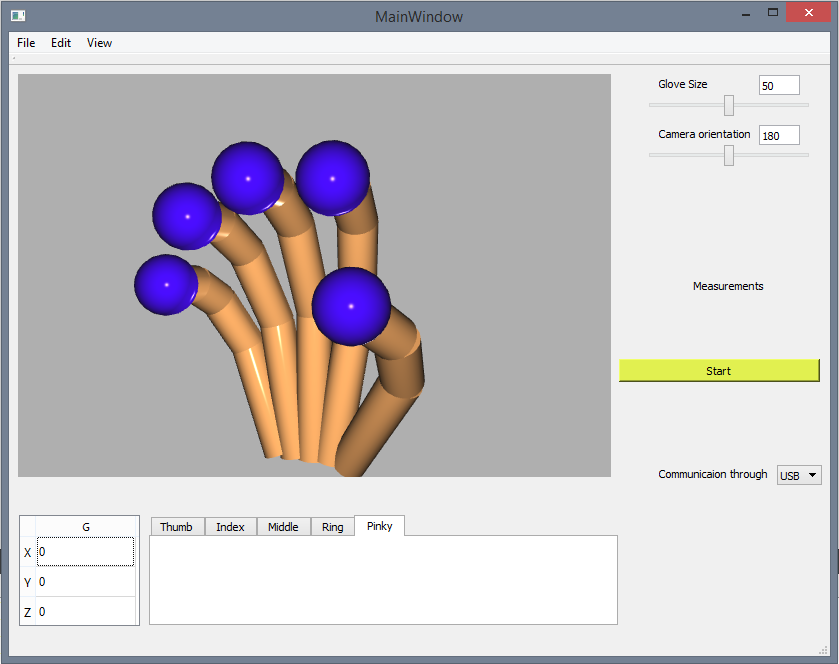
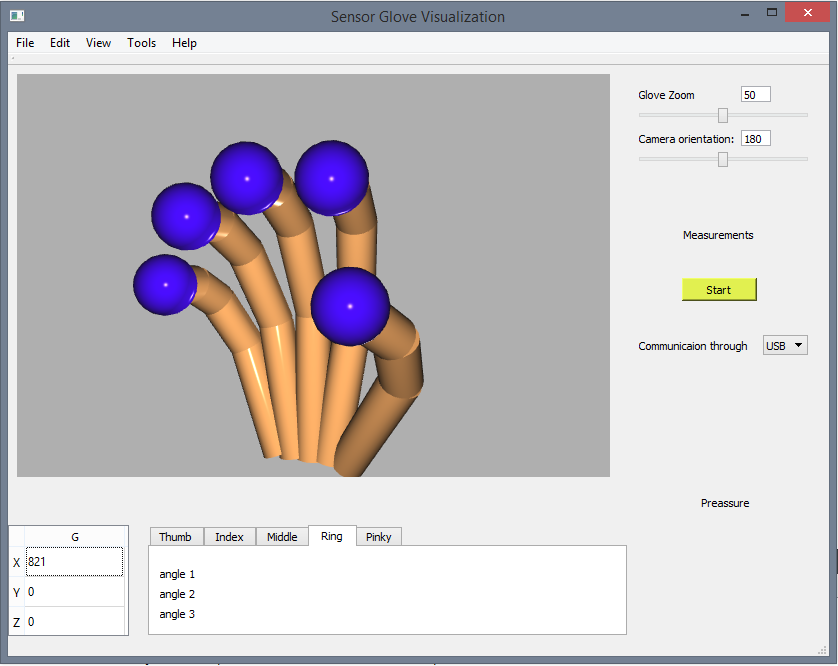
Dodano rzeczy do INputu, nie otwiera sie port, nie ma obslugi bledow, nie ma zmiany typu polaczenia

diff --git a/Projekt/SensorGloveQt/input.cpp b/Projekt/SensorGloveQt/input.cpp
@@ -1,11 +1,126 @@
 #include "includes.h"
 
-Input::Input():m_ConnectionType(USBConnection)
+Input::Input(QWidget *parent):QObject(parent),
+    m_ConnectionType(USBConnection),
+    m_RowTransferStarted(),
+    m_SingleDataRow(),
+    m_JointAngles(),
+    m_TensionSensorValues(),
+    m_AccelerometerValues(),
+    m_PortName(),
+    m_PortNumber(),
+    m_Manufacturer()
 {
-
+    SerialPort = new QSerialPort(this);
+    connect(SerialPort, &QSerialPort::readyRead, this, &Input::ReadData);
+    FindCOMport();
+    ConfigureSPort();
 }
 
 void Input::ChangeConnectionType(Input::ConnectionType_t p_ConnecitonType)
 {
     m_ConnectionType=p_ConnecitonType;
+    FindCOMport();
+}
+
+QSerialPort* Input::getSerialPort() const
+{
+    return SerialPort;
+}
+
+void Input::FindCOMport()
+{
+    QString DesiredManufacturer;
+    switch(m_ConnectionType)
+    {
+    case BluetoothConnection:
+        DesiredManufacturer = BLUETOOTH_MANUFACTURER;
+        break;
+    case UARTConnection:
+        DesiredManufacturer = UART_MANUFACTURER;
+        break;
+    case USBConnection:
+        DesiredManufacturer = USB_MANUFACTURER;
+    }
+
+    const auto PortInfo = QSerialPortInfo::availablePorts();
+    for(const QSerialPortInfo &information: PortInfo)
+    {
+        if(!DesiredManufacturer.compare(information.manufacturer()))
+        {
+            m_Manufacturer = information.manufacturer();
+            m_PortNumber = information.serialNumber();
+            m_PortName = information.portName();
+            break;
+        }
+    }
+}
+
+void Input::ConfigureSPort()
+{
+    switch(m_ConnectionType)
+    {
+    case BluetoothConnection:
+        SerialPort->setBaudRate(BLUETOOTH_BAUDRATE);
+        break;
+    case UARTConnection:
+        SerialPort->setBaudRate(UART_BAUDRATE);
+        break;
+    case USBConnection:
+        SerialPort->setBaudRate(USB_BAUDRATE);
+    }
+    SerialPort->setPortName(m_PortName);
+    SerialPort->setDataBits(QSerialPort::Data8);
+    SerialPort->setParity(QSerialPort::NoParity);
+    SerialPort->setStopBits(QSerialPort::OneAndHalfStop);
+    SerialPort->setFlowControl(QSerialPort::NoFlowControl);
+}
+
+void Input::OpenCloseSPort()
+{
+    if(SerialPort->isOpen())
+        SerialPort->close();
+    else
+        SerialPort->open(QIODevice::ReadOnly);
+}
+
+void Input::ReadData()
+{
+    QByteArray ReceivedData = SerialPort->read(1);
+    float JointAngle;
+    int TensionValue;
+    float RotationAngle;
+    if(m_RowTransferStarted)
+        if(ReceivedData.at(0)=='R')
+        {
+            QTextStream DataStream(m_SingleDataRow);
+            for(int i=0; i<(FINGER_COUNT*2) && !DataStream.atEnd();++i)
+            {
+                JointAngle;
+                DataStream >> JointAngle;
+                m_JointAngles.push_back(JointAngle);
+            }
+            for(int i=0; i<FINGER_COUNT && !DataStream.atEnd();++i)
+            {
+                TensionValue;
+                DataStream >> TensionValue;
+                m_TensionSensorValues.push_back(TensionValue);
+            }
+            for(int i=0; i<ROTATION_ANGLE_COUNT && !DataStream.atEnd();++i)
+            {
+                RotationAngle;
+                DataStream >> RotationAngle;
+                m_AccelerometerValues.push_back(RotationAngle);
+            }
+            m_SingleDataRow.clear();
+            for(float var: m_JointAngles)
+                std::cout<<var<<' ';
+            std::cout<<std::endl;
+            m_RowTransferStarted=false;
+        }
+        else
+            m_SingleDataRow.append(ReceivedData);
+    else
+        if(ReceivedData.at(0)=='S')
+            m_RowTransferStarted=true;
 }

diff --git a/Projekt/SensorGloveQt/input.h b/Projekt/SensorGloveQt/input.h
@@ -12,6 +12,17 @@
 
 #include <QtBluetooth>
 #include <QtSerialPort>
+#include "errorhandler.h"
+
+#define BLUETOOTH_MANUFACTURER ""
+#define UART_MANUFACTURER "Prolific"
+#define USB_MANUFACTURER "STMicroelectornics."
+
+#define BLUETOOTH_BAUDRATE QSerialPort::Baud9600
+#define UART_BAUDRATE QSerialPort::Baud115200
+#define USB_BAUDRATE QSerialPort::Baud115200
+
+#define ROTATION_ANGLE_COUNT 3
 
 /*
 namespace Id {
@@ -26,19 +37,37 @@ class Input;
  * wskazania akcelerometru i typ połączenia z rękawicą sensoryczną
  *
  */
-class Input: QBluetoothTransferManager, QSerialPort
+class Input: public QObject
 {
-    enum ConnectionType_t {BluetoothConnection, USBConnection};
+    Q_OBJECT
+private:
+    enum ConnectionType_t {BluetoothConnection, UARTConnection, USBConnection};
+
+    QSerialPort *SerialPort;
+
+    QString m_PortName;
+    QString m_PortNumber;
+    QString m_Manufacturer;
+
+    bool m_RowTransferStarted;
+    QByteArray m_SingleDataRow;
 
     QVector<float> m_JointAngles;
     QVector<int> m_TensionSensorValues;
     QVector<float> m_AccelerometerValues;
     ConnectionType_t m_ConnectionType;
 public:
-    Input();
+
+    explicit Input(QWidget *parent = nullptr);
 
     void ChangeConnectionType(ConnectionType_t p_ConnecitonType);
-    void ConfigureInput();
+    QSerialPort* getSerialPort() const;
+private:
+    void FindCOMport();
+    void ConfigureSPort();
+public slots:
+    void OpenCloseSPort();
+    void ReadData();
 };
 
 #endif // INPUT_H

diff --git a/Projekt/SensorGloveQt/mainwindow.cpp b/Projekt/SensorGloveQt/mainwindow.cpp
@@ -6,6 +6,7 @@ MainWindow::MainWindow(QWidget *parent) :
 {
     ui->setupUi(this);
     ui->StartStopButton->setStyleSheet("background-color: rgb(225,240,80)");
+    this->setWindowTitle("Sensor Glove Visualization");
     this->setMinimumHeight(ui->ConfigurationWidget->height() + ui->MeasurementWidget->height()
                            +ui->GyroTable->height() + MARGIN*3);
     this->setMinimumWidth(ui->GyroTable->width()+ui->FingersTab->width()+MARGIN*3);
@@ -29,12 +30,12 @@ void MainWindow::AddWidgetToGlove3DLayout(QWidget *widget)
      ui->centralWidget->width();
      ui->Glove3DLayout->addWidget(widget);
      Glove3DLayoutWidgetIsSet = true;
-
  }
 
 void MainWindow::InitInputData(Input * data)
 {
     InputData = data;
+    connect(ui->StartStopButton, &QPushButton::clicked,InputData, &Input::OpenCloseSPort);
 }
 // ********************************************************************
 // ***************************   private    ***************************   private
@@ -62,7 +63,6 @@ void MainWindow::on_StartStopButton_clicked()
     {
         ui->StartStopButton->setText("Stop");
         ui->StartStopButton->setStyleSheet("background-color: rgb(240,125,70)");
-
     }
     else
     {

diff --git a/Projekt/SensorGloveQt/main.cpp b/Projekt/SensorGloveQt/main.cpp
@@ -8,7 +8,9 @@ int main(int argc, char *argv[])
 
     Qt3DCore::QEntity *rootEntity = new Qt3DCore::QEntity();
     Scene *scene3D = new Scene(rootEntity);
+    Input *DataInput = new Input();
     w.getScene(scene3D);
+    w.InitInputData(DataInput);
     QVector<float> thumbAngles(2,60);
     QVector<float> indexAngles(3,10);
     QVector<float> middleAngles(3,90);

diff --git a/Projekt/SensorGloveQt/includes.h b/Projekt/SensorGloveQt/includes.h
@@ -59,7 +59,6 @@
 #include <Qt3DExtras/QSphereMesh>
 
 #include "errorhandler.h"
-#include "mainwindow.h"
 #include "joint.h"
 #include "manipulatorrotational.h"
 #include "fingertip.h"
@@ -67,5 +66,6 @@
 #include "hand.h"
 #include "scene.h"
 #include "input.h"
+#include "mainwindow.h"
 
 #endif // INCLUDES_H

diff --git a/Projekt/SensorGloveQt/errorhandler.h b/Projekt/SensorGloveQt/errorhandler.h
@@ -18,12 +18,13 @@ class ErrorHandler
 public:
     enum ErrorType_t
     {
-        NegativeAngle=0
+        NegativeAngle=0,
+        SerialPortError=1
     };
-
     ErrorHandler();
 
     void ExceptionHandler(ErrorType_t p_errorType);
+signals:
 };
 
 #endif // ERRORHANDLER_H

diff --git a/Projekt/SensorGloveQt/mainwindow.h b/Projekt/SensorGloveQt/mainwindow.h
@@ -59,7 +59,6 @@ void on_GloveZoomSlider_valueChanged(int value);
 void on_GloveZoomLineEdit_textEdited(const QString &arg1);
 void on_GloveZoomLineEdit_editingFinished();
 
-
 private:
     Ui::MainWindow *ui;
     Input *InputData;
